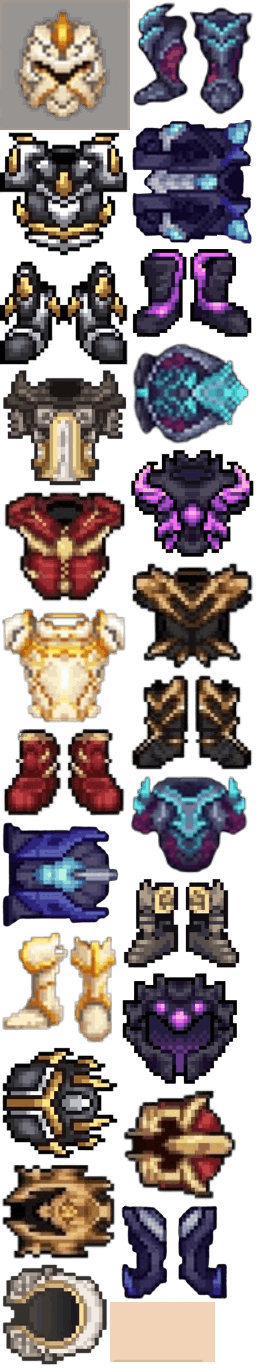
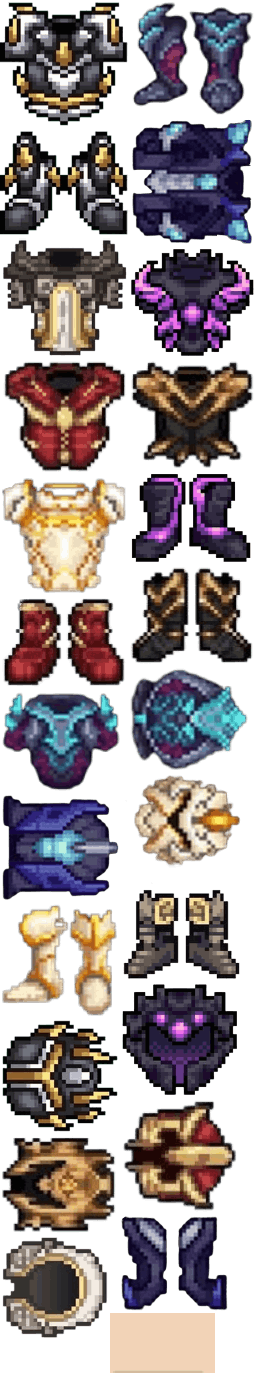
Actualizo armaduras y scripts del juego

diff --git a/99.Game/scripts/gameLogic.js b/99.Game/scripts/gameLogic.js
@@ -82,18 +82,46 @@ async function loadAllSprites() {
     delete sprites.floor;
     delete loadedImages.floor;
 
-    loadSprites(); // This populates the 'sprites' object with static sprites
+    loadSprites(); // This populates the 'sprites' object with procedural enemies
 
-    // Create the initial player sprite using the pre-loaded data.
+    // Create the player sprite from the pre-loaded spritesheet data
     sprites.player = createPlayerSprite({ equipped: player.equipped, ...playerSpriteData });
     sprites.minion = createMinionSprite(sprites.player);
 
-    // Ensure loadedImages.player is populated for the UI to draw.
-    const img = new Image();
-    img.src = sprites.player;
-    img.onload = () => {
-        loadedImages.player = img;
-    };
+    return new Promise(resolve => {
+        const keysToLoad = Object.keys(sprites);
+        if (keysToLoad.length === 0) {
+            resolve();
+            return;
+        }
+
+        let loadedCount = 0;
+        const checkAllLoaded = () => {
+            loadedCount++;
+            if (loadedCount === keysToLoad.length) {
+                resolve();
+            }
+        };
+
+        keysToLoad.forEach(key => {
+            const spriteValue = sprites[key];
+            if (spriteValue.startsWith('data:') || spriteValue.includes('/')) {
+                const img = new Image();
+                img.src = spriteValue;
+                img.onload = () => {
+                    loadedImages[key] = img;
+                    checkAllLoaded();
+                };
+                img.onerror = () => {
+                    console.error(`Failed to load sprite: ${key} from ${spriteValue}`);
+                    checkAllLoaded();
+                };
+            } else {
+                loadedImages[key] = spriteValue;
+                checkAllLoaded();
+            }
+        });
+    });
 }
 
 // --- Core Game Functions ---

diff --git a/99.Game/scripts/player.js b/99.Game/scripts/player.js
@@ -393,12 +393,29 @@ export function createPlayerSprite(options = {}) {
     const left_arm_x = (finalSize / 2) - 15 - (armWidth / 2);
     const right_arm_x = (finalSize / 2) + 16 - (armWidth / 2);
 
-    // Usar el equipo equipado para obtener los nombres de los sprites.
-    // Se proporciona un sprite por defecto si no hay nada equipado.
-    const helmetSprite = equipped.helmet?.spriteName || 'casco_1.png';
-    const armorSprite = equipped.armor?.spriteName || 'armadura_1.png';
-    const bootsSprite = equipped.boots?.spriteName || 'botas_1.png';
-    const armsSprite = 'brazos_1.png'; // Los brazos son constantes por ahora
+    // Mapeo de nombres de set a números de sprite
+    const setMapping = {
+        'Hierro': 1,
+        'Caballero': 2,
+        'Demonio': 3,
+        'León': 4,
+        'Asesinato': 5,
+        'Noble': 6,
+        'Mago': 7,
+        'Caos': 8
+    };
+
+    const getSpriteName = (type, part) => {
+        const item = equipped[part];
+        const set = item?.set;
+        const number = setMapping[set] || 1; // Por defecto, Hierro (1)
+        return `${type}_${number}.png`;
+    };
+
+    const helmetSprite = getSpriteName('casco', 'helmet');
+    const armorSprite = getSpriteName('armadura', 'armor');
+    const bootsSprite = getSpriteName('botas', 'boots');
+    const armsSprite = 'brazos_1.png'; // Siempre usar brazos_1 para guantes
 
     // Replicando el orden de dibujado y capas original para mantener el aspecto visual
     drawPart(bootsSprite, center_x_boots, 40, bootsWidth, bootsHeight);
